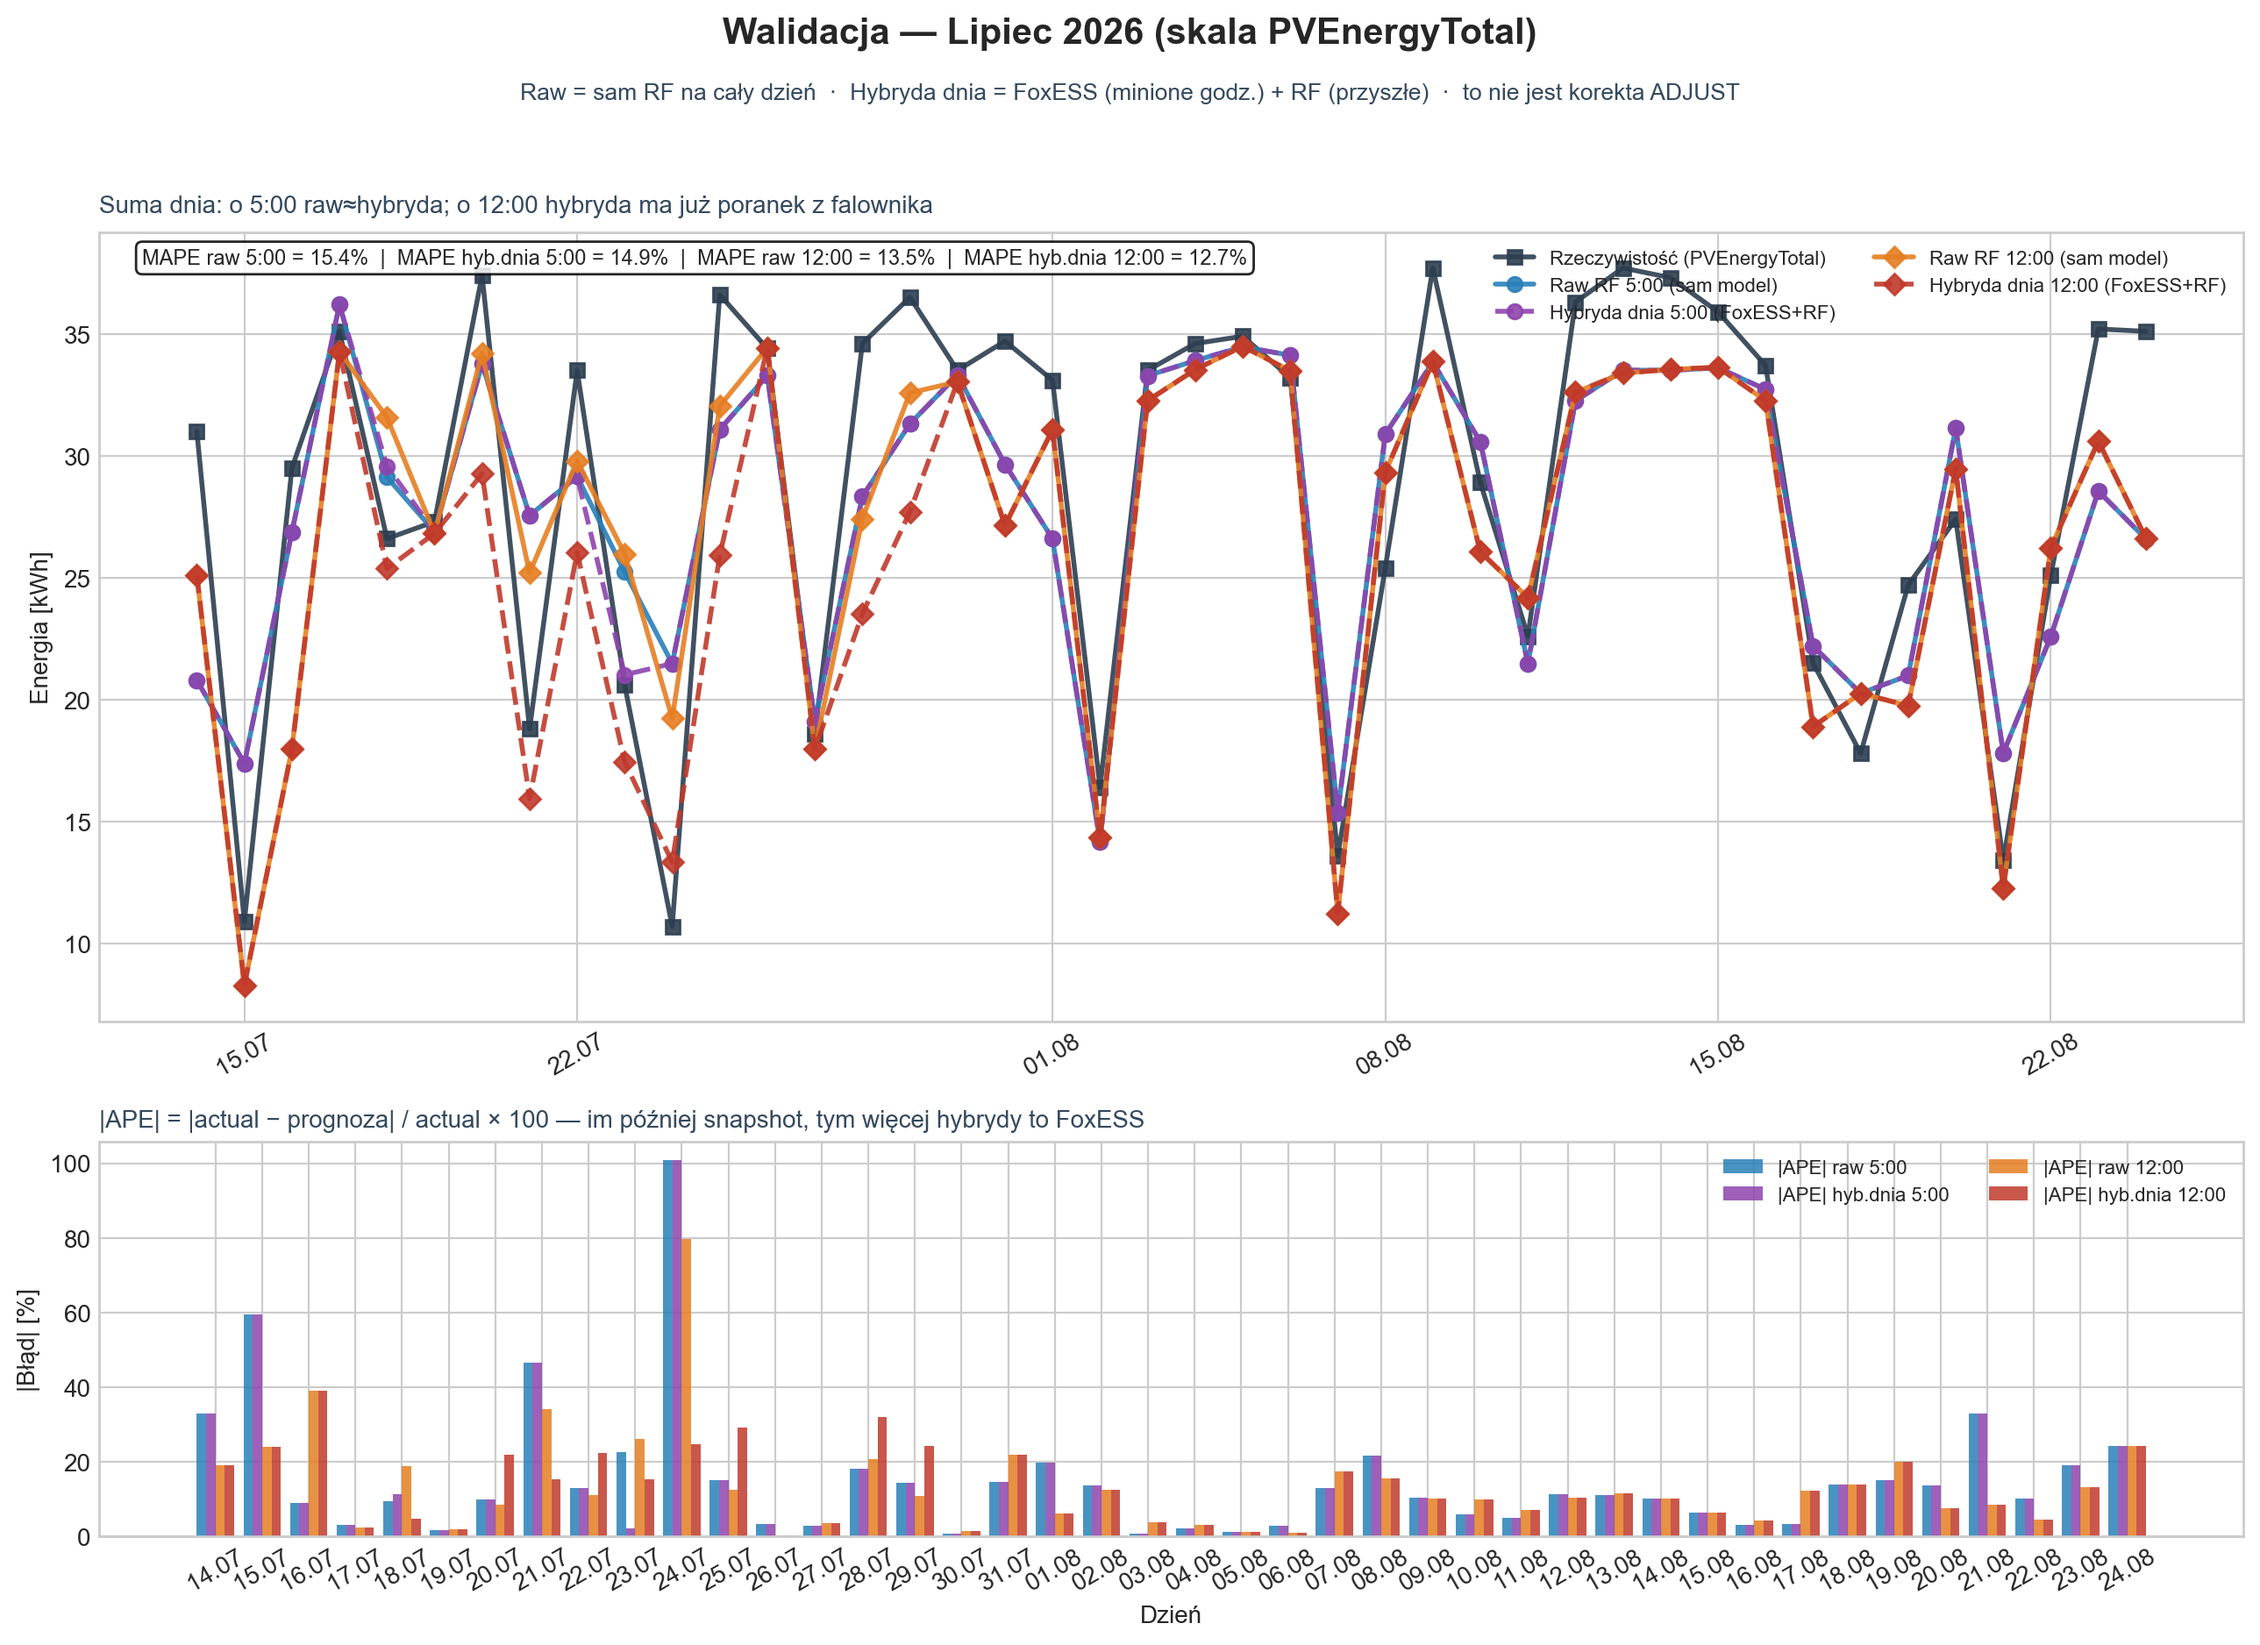
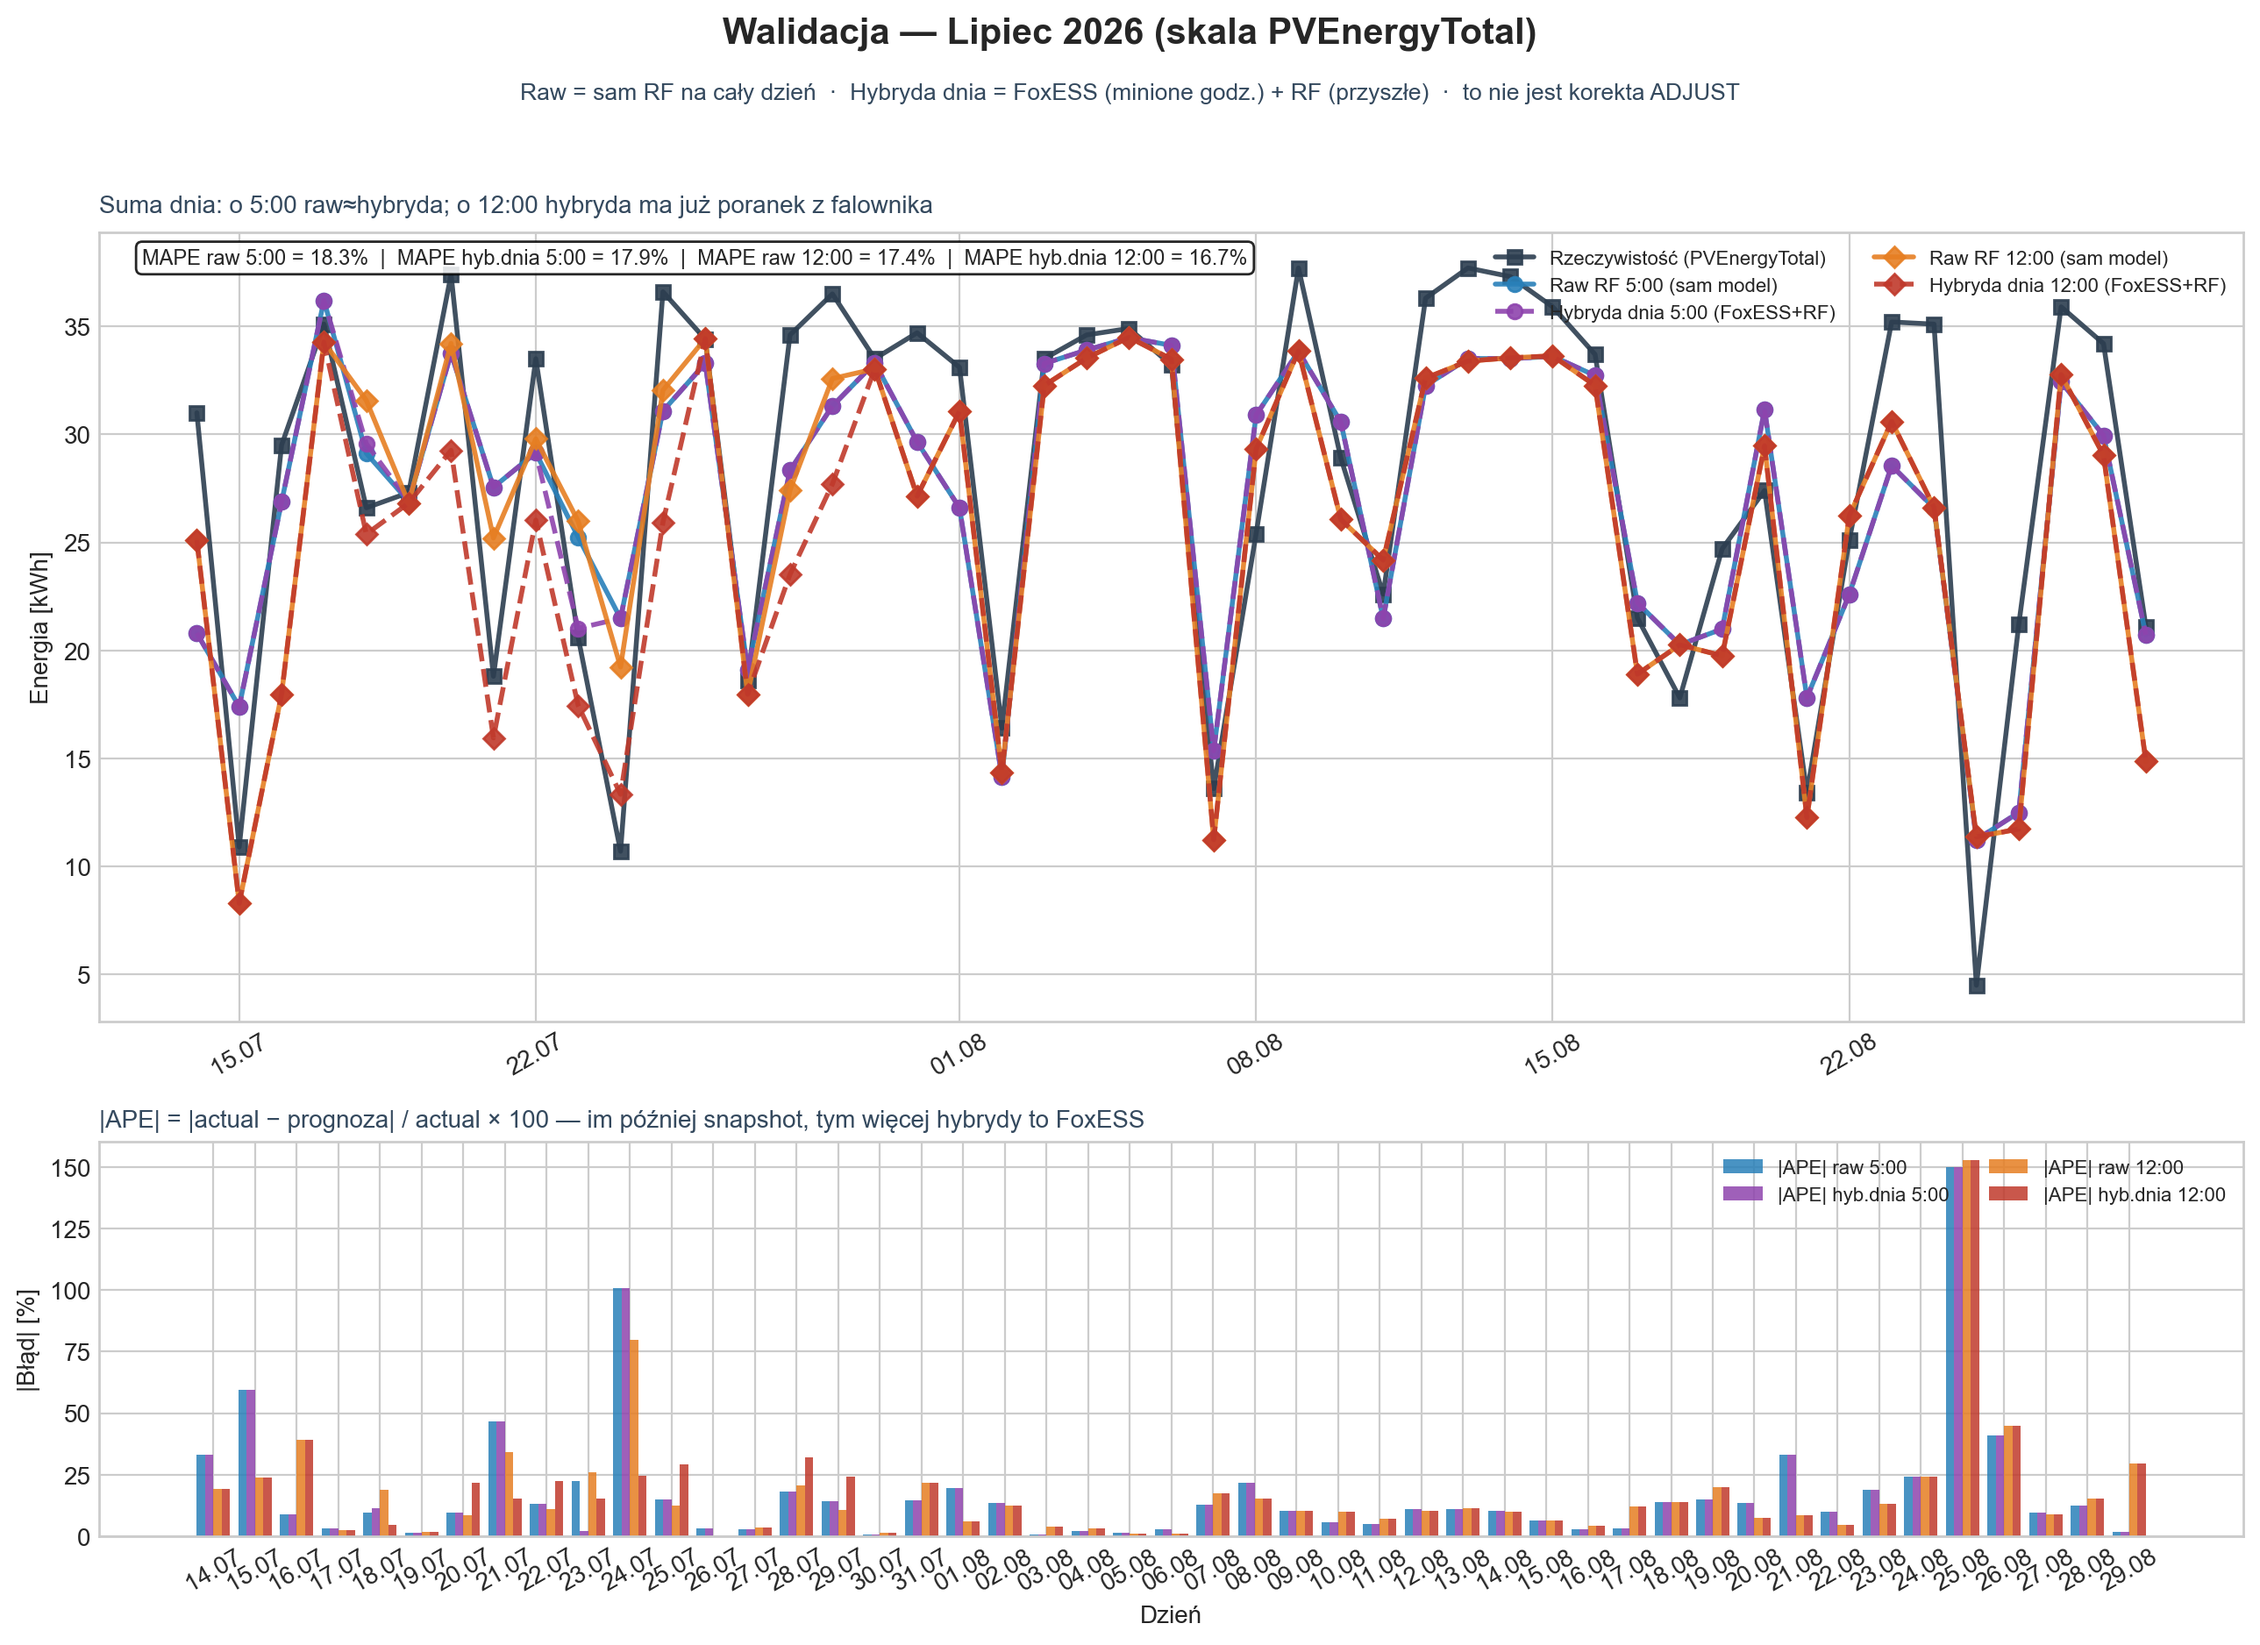
docs(ml): wykresy walidacji do 29.08 + MAPE live

diff --git a/scripts/plots/plot_production_validation.py b/scripts/plots/plot_production_validation.py
@@ -54,6 +54,7 @@ MILESTONES = [
     {'date': '2026-08-09', 'label': 'Retrain', 'color': '#F39C12', 'type': 'retrain'},
     {'date': '2026-08-16', 'label': 'Retrain', 'color': '#F39C12', 'type': 'retrain'},
     {'date': '2026-08-23', 'label': 'Retrain', 'color': '#F39C12', 'type': 'retrain'},
+    {'date': '2026-08-30', 'label': 'Retrain', 'color': '#F39C12', 'type': 'retrain'},
 ]
 
 

diff --git a/docs/images/ml/july_validation_summary.md b/docs/images/ml/july_validation_summary.md
@@ -6,12 +6,12 @@ Metryka: **|APE| %** = `|actual − prognoza| / actual × 100`. Pogoda: średnie
 
 | Typ dnia (cloud) | n | MAPE raw 5:00 | MAPE raw 12:00 | Dni |
 |---|---:|---:|---:|---|
-| słoneczny / mało chmur | 11 | 6.2% | 5.8% | 20.07, 26.07, 30.07, 04.08, 05.08, 06.08, 09.08, 12.08, 13.08, 14.08, 15.08 |
-| mieszany | 13 | 12.8% | 13.8% | 16.07, 17.07, 25.07, 28.07, 29.07, 31.07, 03.08, 08.08, 16.08, 20.08, 22.08, 23.08, 24.08 |
-| pochmurny / deszczowy | 18 | 22.8% | 18.1% | 14.07, 15.07, 18.07, 19.07, 21.07, 22.07, 23.07, 24.07, 27.07, 01.08, 02.08, 07.08, 10.08, 11.08, 17.08, 18.08, 19.08, 21.08 |
+| słoneczny / mało chmur | 12 | 6.5% | 6.0% | 20.07, 26.07, 30.07, 04.08, 05.08, 06.08, 09.08, 12.08, 13.08, 14.08, 15.08, 27.08 |
+| mieszany | 15 | 12.0% | 15.0% | 16.07, 17.07, 25.07, 28.07, 29.07, 31.07, 03.08, 08.08, 16.08, 20.08, 22.08, 23.08, 24.08, 28.08, 29.08 |
+| pochmurny / deszczowy | 20 | 30.1% | 26.1% | 14.07, 15.07, 18.07, 19.07, 21.07, 22.07, 23.07, 24.07, 27.07, 01.08, 02.08, 07.08, 10.08, 11.08, 17.08, 18.08, 19.08, 21.08, 25.08, 26.08 |
 
 - **Najtrafniejszy raw 5:00:** 30.07 (0.6% · słoneczny / mało chmur, cloud~31%, actual 33.5 kWh), 03.08 (0.7% · mieszany, cloud~48%, actual 33.5 kWh), 05.08 (1.2% · słoneczny / mało chmur, cloud~9%, actual 34.9 kWh)
-- **Najgorszy raw 5:00:** 24.07 (100.7% · pochmurny / deszczowy, cloud~86%, actual 10.7 kWh), 15.07 (59.5% · pochmurny / deszczowy, cloud~94%, actual 10.9 kWh), 21.07 (46.5% · pochmurny / deszczowy, cloud~85%, actual 18.8 kWh)
+- **Najgorszy raw 5:00:** 25.08 (149.8% · pochmurny / deszczowy, cloud~100%, actual 4.5 kWh), 24.07 (100.7% · pochmurny / deszczowy, cloud~86%, actual 10.7 kWh), 15.07 (59.5% · pochmurny / deszczowy, cloud~94%, actual 10.9 kWh)
 
 - **Wzorzec:** na dniach **jasnych / wysokiej produkcji** raw bywa lekko **za niski** (ICON za chmurny vs Accu) — błąd umiarkowany w %, duży w kWh. Na dniach **słabych / burzowych** raw często **zawyża** — wtedy |APE| % bywa największy.
 
@@ -21,7 +21,7 @@ Porównanie **midday (12:00)**: hybryda = FoxESS na minione godziny + RF na resz
 
 - **Hybryda pomaga (12:00):** 18.07 (↓14.1 pp, pochmurny / deszczowy); 21.07 (↓18.9 pp, pochmurny / deszczowy); 23.07 (↓10.8 pp, pochmurny / deszczowy); 24.07 (↓55.0 pp, pochmurny / deszczowy)
 - **Hybryda szkodzi (12:00):** 20.07 (↑13.2 pp, słoneczny / mało chmur); 22.07 (↑11.2 pp, pochmurny / deszczowy); 25.07 (↑16.7 pp, mieszany); 28.07 (↑11.3 pp, mieszany); 29.07 (↑13.4 pp, mieszany)
-- **Remis / szum (<1 pp):** 14.07, 15.07, 16.07, 17.07, 19.07, 26.07, 27.07, 30.07, 31.07, 01.08, 02.08, 03.08, 04.08, 05.08, 06.08, 07.08, 08.08, 09.08, 10.08, 11.08, 12.08, 13.08, 14.08, 15.08, 16.08, 17.08, 18.08, 19.08, 20.08, 21.08, 22.08, 23.08, 24.08
+- **Remis / szum (<1 pp):** 14.07, 15.07, 16.07, 17.07, 19.07, 26.07, 27.07, 30.07, 31.07, 01.08, 02.08, 03.08, 04.08, 05.08, 06.08, 07.08, 08.08, 09.08, 10.08, 11.08, 12.08, 13.08, 14.08, 15.08, 16.08, 17.08, 18.08, 19.08, 20.08, 21.08, 22.08, 23.08, 24.08, 25.08, 26.08, 27.08, 28.08, 29.08
 
 - **O 5:00:** hybryda ≈ raw (pomaga 1 dni / szkodzi 1) — przed wschodem prawie nie ma FoxESS do podmiany.
 
@@ -39,7 +39,15 @@ Podział według **zmian logiki / targetu / cech** (nie każdy niedzielny odświ
 |---|---|---:|---:|---:|
 | 14.07–18.07 | przed targetem PVE (skala mieszana; GPS/ICON 17.07) | 5 | 22.8% | 20.6% |
 | 19.07–26.07 | po PVE 18.07 ~16:32 — przed dual 26.07 | 8 | 26.5% | 21.7% |
-| 27.07–24.08 | era produkcyjna dual (po 26.07; weekly = odświeżenie wag; do ostatniego closeoutu) | 29 | 11.0% | 10.0% |
-| 19.07–24.08 | **era PVE łącznie** (bez 14–18) | 37 | **14.4%** | **12.6%** |
+| 27.07–29.08 | era produkcyjna dual (po 26.07; weekly = odświeżenie wag; do ostatniego closeoutu) | 34 | 15.7% | 15.9% |
+| 19.07–29.08 | **era PVE łącznie** (bez 14–18) | 42 | **17.8%** | **17.0%** |
 
-_Zakres całość: 14.07–24.08 (42 closeoutów) · MAPE raw 5:00 = **15.4%** · MAPE raw 12:00 = **13.5%**._
+_Zakres całość: 14.07–29.08 (47 closeoutów) · MAPE raw 5:00 = **18.3%** · MAPE raw 12:00 = **17.4%**._
+
+#### Notatka odświeżenia 30.08
+
+- Zakres closeoutów: **14.07–29.08** (n=47). PNG + ten plik wygenerowane **30.08**.
+- **25.08** (actual **4,5** kWh, cloud~100%): |APE| raw 5:00 **~150%** — typowy skok MAPE % przy małym mianowniku; RF mocno zawyżył dzień mokry.
+- **26.08** clearing: raw za niski (classic undershoot) — też podnosi erę dual vs stan na 24.08.
+- **29.08** daily 5:00 w CSV = **peak D-1 (20,72 kWh)** — brak launchd 05:00 (burza/sen); midday 12:00 = prawdziwy run (14,87). CS4 pick EOD **21,5** vs actual **21,1**.
+- Era dual **27.07–29.08** (n=34): MAPE raw **15,7% / 15,9%** (wcześniej do 24.08: 11,0% / 10,0%, n=29).

diff --git a/docs/STATUS_ML_MLOPS.md b/docs/STATUS_ML_MLOPS.md
@@ -1,7 +1,7 @@
 # Status ML / MLOps — aktualny snapshot
 
 **Stan na:** 2026-08-30  
-**Źródła liczb:** `models/pv_hourly_model.joblib` (**weekly 30.08**) · `forecast_validation.csv` (closeouty predicte do **24.08**; live 25–30 w notatkach dnia) · [`NOTATKA_WEEKLY_2026-08-30.md`](NOTATKA_WEEKLY_2026-08-30.md)
+**Źródła liczb:** `models/pv_hourly_model.joblib` (**weekly 30.08**) · `forecast_validation.csv` (closeouty do **29.08**; **30.08** EOD w toku) · [`NOTATKA_WEEKLY_2026-08-30.md`](NOTATKA_WEEKLY_2026-08-30.md)
 
 Ten plik to **jedyna** krótka tabela „aktualne wyniki”. Metoda i historia → linki poniżej (nie duplikuj tu ablacji / gate’ów).
 
@@ -34,16 +34,16 @@ Gate vs weekly **23.08** (0.658): Δ **+0.010** ≤ +0.02 → **ACCEPT**.
 
 | Okres | n | MAPE raw 5:00 | MAPE raw 12:00 |
 |-------|--:|-------------:|---------------:|
-| Era dual **27.07–24.08** | 29 | **11,0%** | **10,0%** |
-| Całość **14.07–24.08** | 42 | 15,4% | 13,5% |
+| Era dual **27.07–29.08** | 34 | **15,7%** | **15,9%** |
+| Całość **14.07–29.08** | 47 | 18,3% | 17,4% |
 
-*(Wykresy nadal do **24.08**. Live po 24: **29.08** actual **21,1** · CS4 pick **+2%**; **30.08** jasny · PV **≥25,9** @15 przy daily ~27 — pełny EOD w toku.)*
+*(Wykresy odświeżone **30.08** do **29.08**. Skok MAPE vs 24.08 głównie przez **25.08** mokry (actual 4,5 · |APE|~150%) i **26.08** clearing undershoot. **30.08** EOD w toku — PV **≥25,9** @15 · daily ~27.)*
 
-CS4 daily (era dual, n=29): MAPE **~11,4%** — lekko powyżej RF; lepszy na pochmurnych; na jasnych gorzej.
+CS4: na pochmurnych / mix często bliżej faktu (np. **29.08** pick **21,5** vs **21,1**); na jasnych RF bywa lepszy.
 
-Ostatnie closeouty: **24.08** **35,1** · **29.08** **21,1** (CS4 ✓) · **30.08** w toku (jasny, SoC 100% od południa).
+Ostatnie closeouty: **27.08** **35,9** · **28.08** **34,2** · **29.08** **21,1** (CS4 ✓) · **30.08** w toku.
 
-Wykresy (do **24.08**, odświeżone **25.08**): [`images/ml/july_validation_plot.png`](images/ml/july_validation_plot.png), [`images/ml/production_validation_plot.png`](images/ml/production_validation_plot.png) · opis: [`images/ml/july_validation_summary.md`](images/ml/july_validation_summary.md).
+Wykresy (do **29.08**, odświeżone **30.08**): [`images/ml/july_validation_plot.png`](images/ml/july_validation_plot.png), [`images/ml/production_validation_plot.png`](images/ml/production_validation_plot.png) · opis błędów: [`images/ml/july_validation_summary.md`](images/ml/july_validation_summary.md).
 
 ---
 
